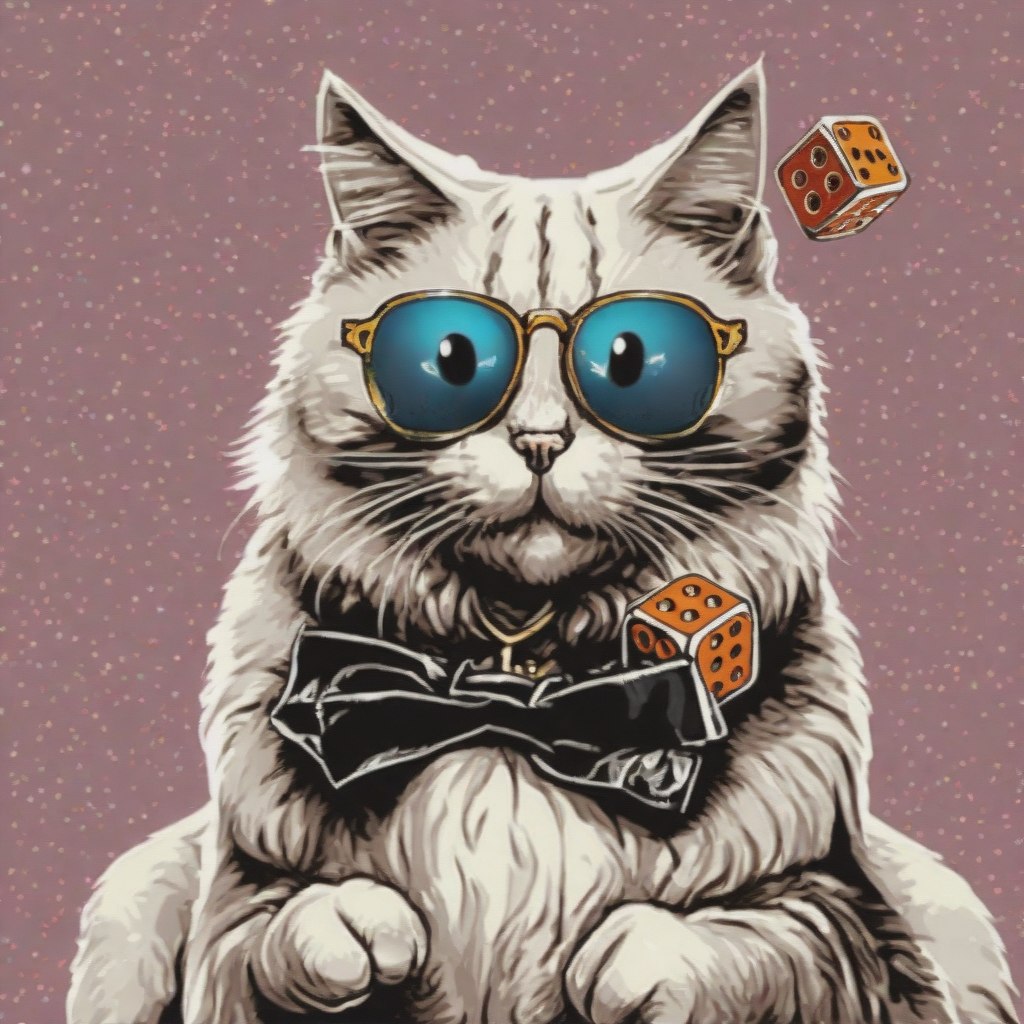
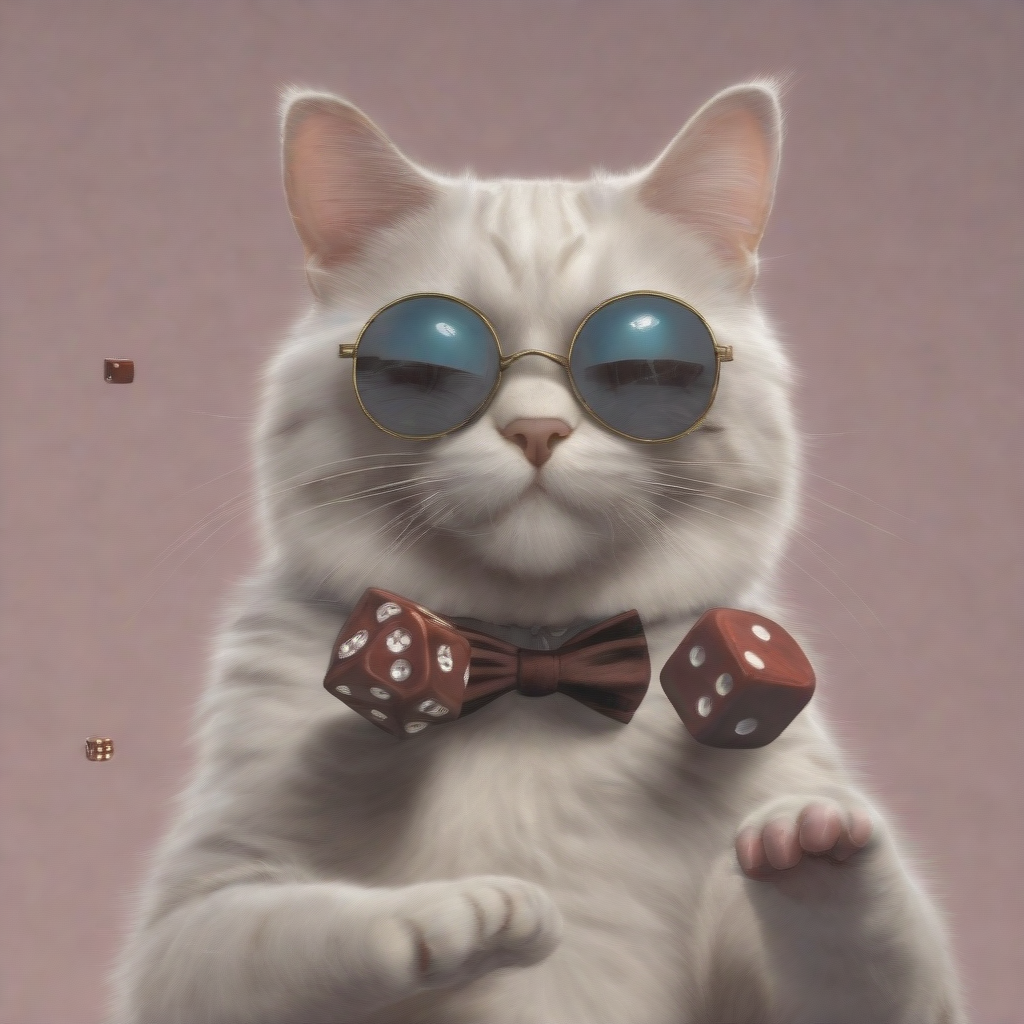
Consistent prompt

diff --git a/README.md b/README.md
@@ -114,7 +114,7 @@ cat_img <- txt2img(
 
 gambling_cat <- img2img(
   input_image = "cat2.png",
-  prompt = "a cat and throwing dice",
+  prompt = "a photorealistic cat throwing dice",
   img_dim = 1024,
   model_name = model_name,
   devices = devices,
